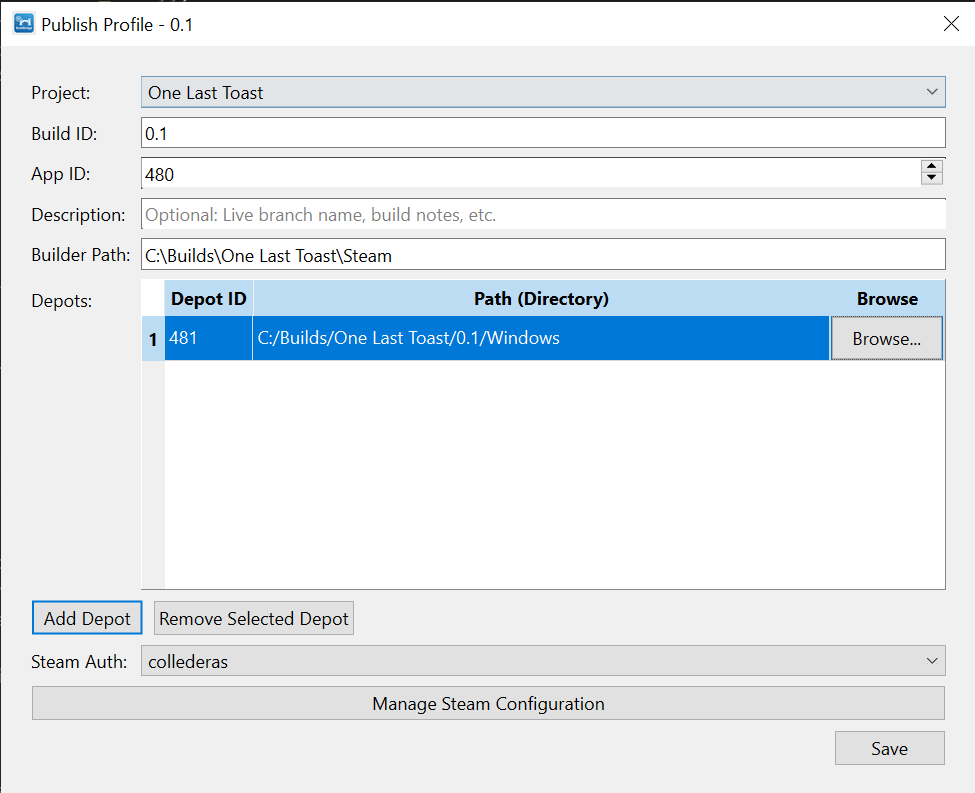
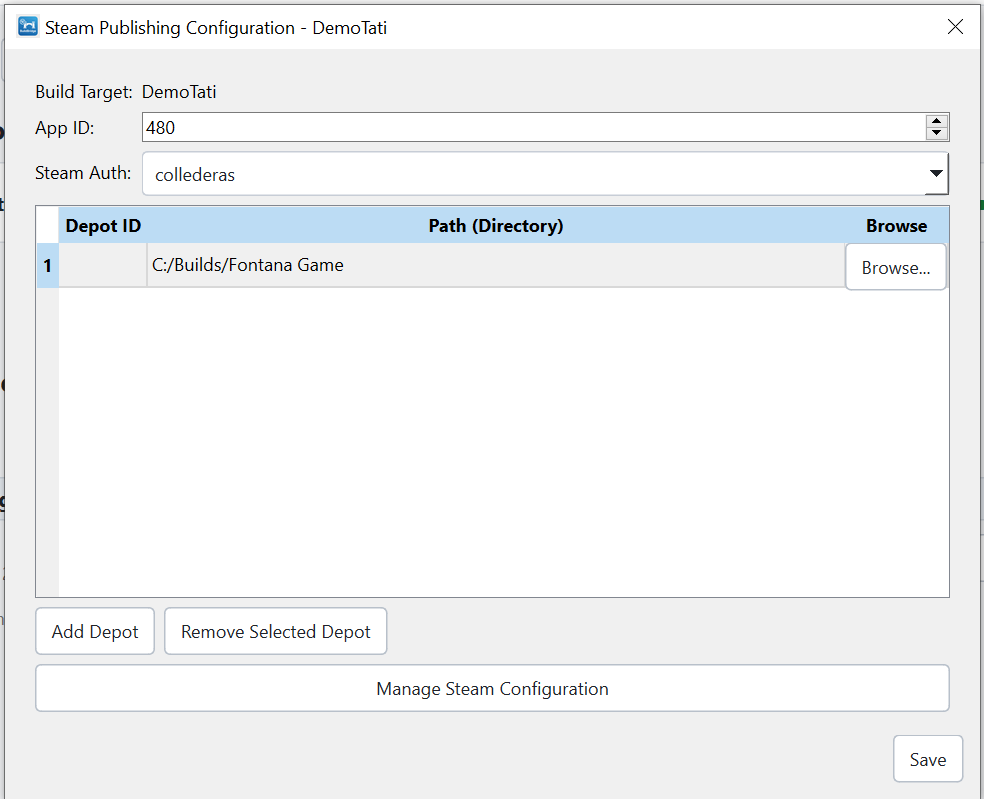
Update docs for multi-project, inline preflight status, and new publish UI

Changed region(s): [[0.0, 0.0, 1.0, 1.0]]

diff --git a/docs/index.md b/docs/index.md
@@ -52,17 +52,22 @@ For **Itch**:
 1.  **Add a Project**
 * This is what you should see if you load the app for the first time:
     ![Empty App]({{ 'assets/images/mainui_empty.png' | relative_url }})
-* To add a Project go to File -> Settings -> Project and add a name (will be used to name the
-    folder containing your builds).
+* To add a Project go to **File -> Settings -> Project** (or use **+ New** in the
+    project row at the top of the main window) and add a name (will be used to
+    name the folder containing your builds).
     ![Add a project]({{ 'assets/images/settings_project_empty.png' | relative_url }})
 * Set Source Directory: this is the folder containing the .uproject file.
 * Set the Archive Directory: this is the root folder where all builds will go.
+* You can add as many projects as you want and switch between them using the
+    **Project** dropdown at the top of the main window. The selected project
+    drives which build targets and builds are shown below.
+    ![Project Selector]({{ 'assets/images/project_selection_dropdown.png' | relative_url }})
 
 
 2.  **Configure Build Target**
 * Click "+ Add new Build Target" or "Edit" to open the setup dialog. If you didn't create a Project you'll see a shortcut here.
     ![Add a Build Target]({{ 'assets/images/build_target_empty.png' | relative_url }})
-* Select the Project you just created (one day maybe we'll have multi-project support), verify the Source Directory.
+* Select the Project you just created, verify the Source Directory.
     ![Add a Build Target]({{ 'assets/images/build_target_proj_filled.png' | relative_url }})
 * Set the Build Type (Development/Shipping) and Target Platform (Win64, etc.).
     ![Add a Build Target]({{ 'assets/images/build_target_build.png' | relative_url }})
@@ -81,19 +86,42 @@ From version 0.6.0 the Maps and Target section was added. This allows you to spe
 
 4.  **Publish**
 * Once the build is complete, it will appear in the "Available Builds" list in a folder named _{Project.archive_directory}/{Project.name}/{BuildId}_
-        ![Build List]({{ 'assets/images/mainui_build_list_filled.png' | relative_url }})
-* Select the target platform (Steam/Itch.io) from the dropdown.
-* Click "Configure" to configure publishing for that build target and platform
-    (e.g., Steam App ID, Depots, Itch.io User/Game ID, Channel).
-    You'll need to have configured the related Steam/Itch.io settings first. See [Publishing Details](#publishing-details)
-        ![Configure Publishing]({{ 'assets/images/publish_profile_edit.png' | relative_url }})
-* Once publishing is configured and valid, the "Publish" button will be
-    available to click. An upload dialog will show the progress.
-        ![Publish Dialog]({{ 'assets/images/publish_dialog.png' | relative_url }})
+        ![Build List]({{ 'assets/images/build_list_multi_store.png' | relative_url }})
+* Each build row shows a checkbox per store (Steam, Itch.io) with an inline
+    status indicator:
+    * **✓ ready** — preflight passed, ready to publish.
+    * **⚠ warnings** — publishable, but something's worth a glance (hover the label for details).
+    * **✗ issues** — a blocking problem; the checkbox is disabled until it's fixed.
+    * **⚠ not configured** — no profile exists yet for that store.
+* Hover the status text to see exactly what's missing or off.
+        ![Store Status Tooltip]({{ 'assets/images/store_status_tooltip.png' | relative_url }})
+* Click **Configure** next to a store to set its publishing details (Steam App ID
+    and Depots, or Itch.io User/Game ID and Channel). You'll need to have
+    configured the related Steam/Itch.io settings first — see [Publishing Details](#publishing-details).
+* Tick the stores you want to publish this build to. You can pick one, or
+    several. Then click **Publish**.
+* A publishing window opens with one pane per selected store. Uploads run
+    in parallel, each with its own log, status, and cancel button. The window
+    is non-modal, so you can keep using the main app while it runs.
+        ![Publish Dialog]({{ 'assets/images/publish_dialog_multi.png' | relative_url }})
 *SteamCMD buffers its output so you will see logs appearing with delay.*
-* If the "Publish" button is unavailable, hover it and wait for the
-    tooltip: it should provide you with hints on what is missing.
-        ![Tooltip]({{ 'assets/images/publish_button_tooltip.png' | relative_url }})
+* If Steam is one of the selected stores and your account uses SteamGuard,
+    the Steam pane will switch to a "Confirm on phone" state while you
+    approve the login. Other stores keep uploading in the meantime.
+* When a pane finishes successfully, it offers shortcuts to open the build
+    folder or the store page for that release.
+
+### Managing builds
+
+* **Browse** opens the build's output folder on disk.
+* **Remove** deletes the build entry from the list. You'll be asked whether
+  to also delete the files on disk.
+* **Import from disk** (toolbar button above the build list) scans your
+  project's archive directory for folders that look like builds and adds
+  them to the list — handy if you have builds from before BuildBridge
+  started tracking them, or if you cleared the database.
+* Running a new build with a version name that already exists will offer
+  to overwrite the previous folder.
 
 # Publishing Details
 For now Steam and Itch are the supported stores.
@@ -121,13 +149,16 @@ If everything goes well, after you accept the access on your Steam app you shoul
         ![Steam Connection Sunny Scenario]({{ 'assets/images/settings_steam_testing_success.png' | relative_url }})
 
 ### Publishing Configuration
-This dialog (Build List entry -> Configure button):
-![Publishing Configure Button]({{ 'assets/images/build_list_publish.png' | relative_url }})
-allows you to specify the fields that will end up in the vdf file.
-![Steam Publishing Configuration]({{ 'assets/images/publish_profile_steam.png' | relative_url }})
+The Steam configuration dialog (Build List entry -> Configure button next to
+Steam) lets you specify the fields that will end up in the vdf file: App ID,
+depot mappings (Depot ID + content folder), and which Steam authentication
+profile to use.
+        ![Steam Publishing Configuration]({{ 'assets/images/publish_profile_steam.png' | relative_url }})
 
-Build Bridge automatically creates the required vdf file, using the single file approach (no separation for depots).
-It will place the build files in an auto-generated Steam folder in your Project's Builds directory.
+Build Bridge automatically creates the required vdf file, using the single
+file approach (no separation for depots). It will place the generated config
+and build logs in an auto-generated `Steam` folder under your Project's
+archive directory — this is managed for you, no configuration needed.
 {: .notice--info }
 ![Steam Config Folder]({{ 'assets/images/builds_folder.png' | relative_url }})
 
@@ -139,8 +170,8 @@ You can test a connection without butler (as it is done via simple HTTP API call
         ![Itch Config Folder]({{ 'assets/images/settings_itch_testing_success.png' | relative_url }})
 
 ### Publishing Configuration
-This dialog (Build List entry -> Configure button) allows you to specify the fields that butler uses to publish the build on your game's page.
-        ![Itch Publishing Configuration]({{ 'assets/images/publish_profile_edit.png' | relative_url }})
+This dialog (Build List entry -> Configure button next to Itch.io) allows you to specify the fields that butler uses to publish the build on your game's page.
+        ![Itch Publishing Configuration]({{ 'assets/images/publish_profile_itch.png' | relative_url }})
 
 
 ## Contact
